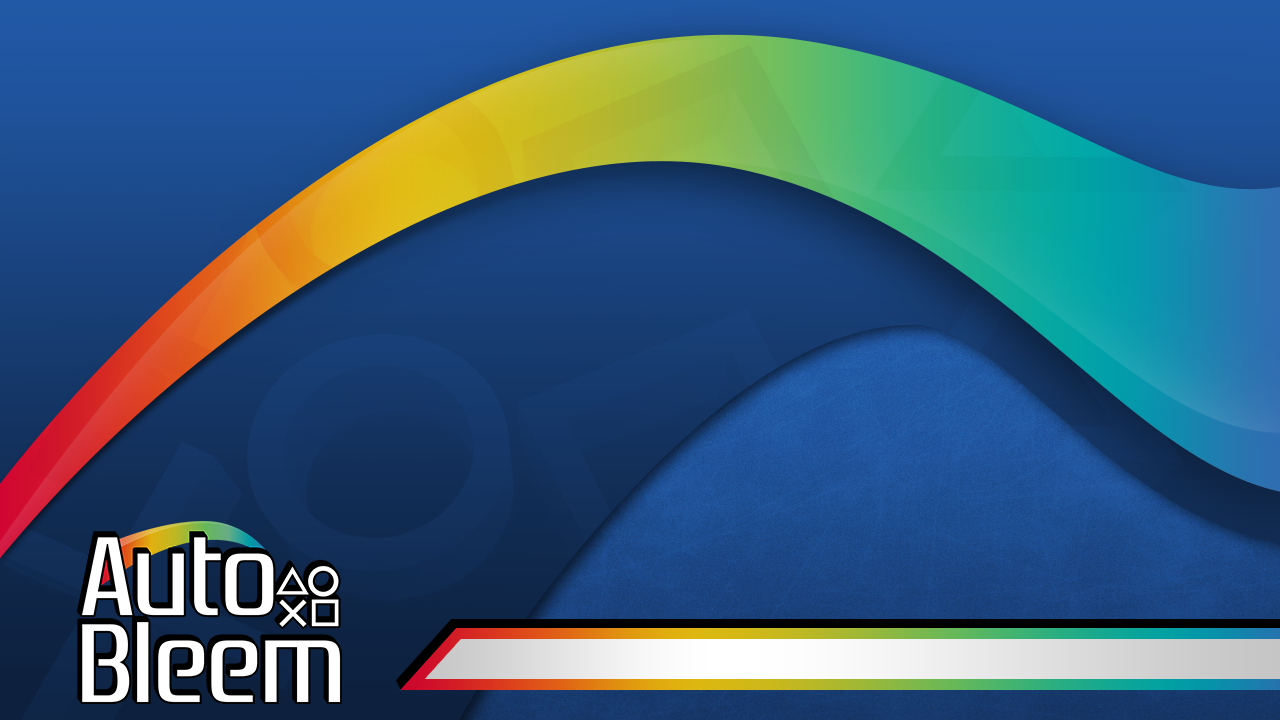
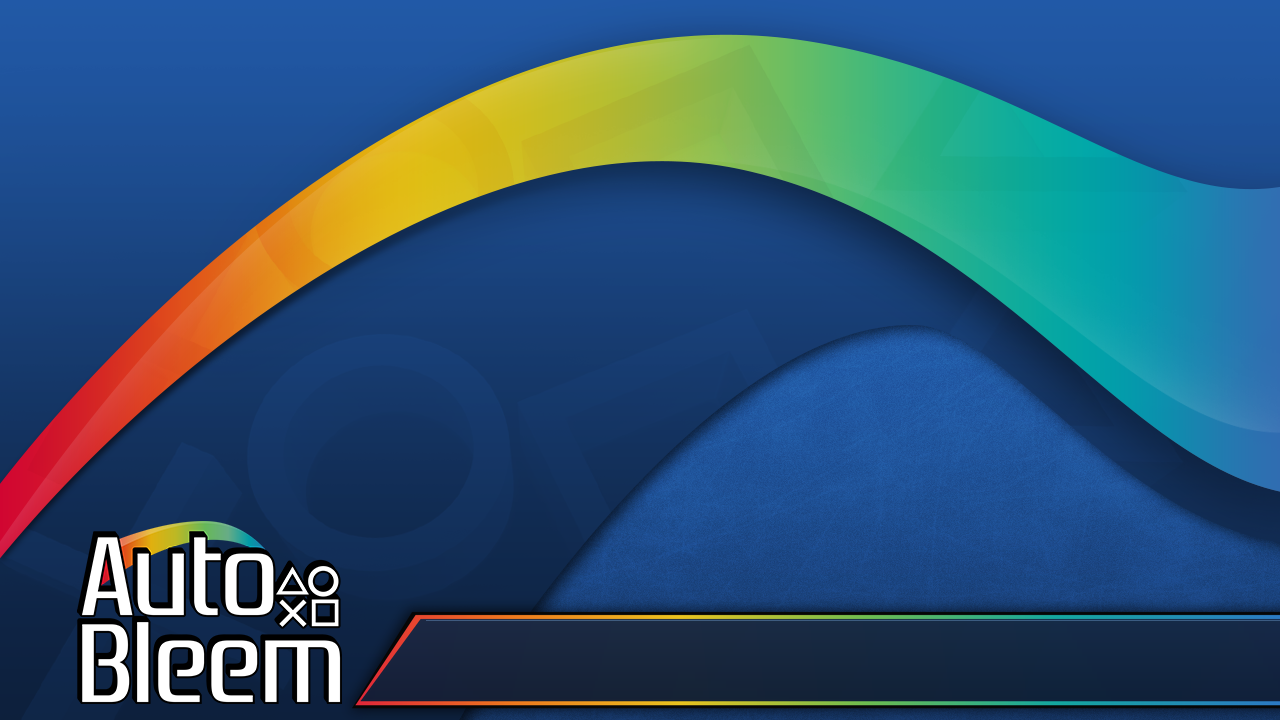
default: frames follow the theme's colours (neutral greys tinted by edge #82b7ed, from the background); a navy hint band for the two hint lines (hintBar 430,620 832x80); row and heading colours readable on the sheets

Changed region(s): [[0.2812, 0.825, 1.0, 1.0]]

diff --git a/tools/make_default_hintband.py b/tools/make_default_hintband.py
@@ -1,0 +1,158 @@
+"""The default theme's hint band: the launcher background's bottom strip, redrawn so the launcher's two hint lines
+(UIREV-36, launcher.hintBar) sit on it readably.
+
+The original strip (y 620..690: a black frame, a rainbow line, a 40 px silver inside) was made for one line of dark
+text; the launcher now writes two lines of white text there, and the hintBar (360,632 900x64) also ran over the
+strip's slanted corner next to the logo. The new band keeps the strip's idea - the slanted left end, a black frame,
+the rainbow line of the big swoosh - but is 96 px high (y 612..708) with a dark navy inside, starts clear of the
+logo (x 352 at its foot), and the hintBar is its inside: 430,620 832x80.
+
+Writes Themes/default/images/launcher_background.png from the original (kept as
+read back from git (ORIG_REV) into tmp/, never committed; the script always starts from it) and, with --shots <dir>, before/after mockups of the launcher's
+bottom with the hints drawn as the code lays them out (4 columns x 2 lines).
+Run: python tools/make_default_hintband.py [--shots <dir>]
+"""
+import json
+import subprocess
+import os
+import sys
+
+from PIL import Image, ImageDraw, ImageFilter, ImageFont
+
+HERE = os.path.dirname(os.path.abspath(__file__))
+THEME = os.path.join(HERE, "..", "Themes", "default")
+IMG = os.path.join(THEME, "images", "launcher_background.png")
+ORIG = os.path.join(HERE, "..", "tmp", "default_launcher_background.orig.png")   # a local copy, never committed
+ORIG_REV = "006d636"   # the last commit with the original art (the strip), read back from git
+SHOTS = sys.argv[sys.argv.index("--shots") + 1] if "--shots" in sys.argv else None
+SS = 4
+Y0, Y1 = 612, 708                   # the band
+X_TOP, X_FOOT = 412, 352            # its slanted left end (the original leans the same way)
+HINTBAR = (430, 620, 832, 80)       # launcher.hintBar: the band's inside
+RAINBOW = [(0.0, (226, 30, 60)), (0.18, (240, 120, 30)), (0.36, (236, 196, 30)), (0.56, (110, 190, 80)),
+           (0.76, (20, 168, 160)), (1.0, (44, 122, 196))]
+
+
+def grad(t):
+    for (a, ca), (b, cb) in zip(RAINBOW, RAINBOW[1:]):
+        if t <= b:
+            k = (t - a) / (b - a)
+            return tuple(round(ca[i] + (cb[i] - ca[i]) * k) for i in range(3))
+    return RAINBOW[-1][1]
+
+
+def band_poly(inset):
+    """the band's outline grown inward by inset px: the slanted left end, the right end off the screen"""
+    slope = (X_TOP - X_FOOT) / (Y1 - Y0)
+    y0, y1 = Y0 + inset, Y1 - inset
+    return [(X_TOP + slope * inset + inset * 0.6 - slope * 0, y0), (1300, y0), (1300, y1),
+            (X_FOOT + inset * 0.6 + (slope * inset), y1)]
+
+
+def mask(poly):
+    m = Image.new("L", (1280 * SS, 720 * SS), 0)
+    ImageDraw.Draw(m).polygon([(x * SS, y * SS) for x, y in poly], fill=255)
+    return m.resize((1280, 720), Image.LANCZOS)
+
+
+def build():
+    if not os.path.exists(ORIG):
+        os.makedirs(os.path.dirname(ORIG), exist_ok=True)
+        data = subprocess.check_output(["git", "-C", HERE, "show", ORIG_REV + ":Themes/default/images/launcher_background.png"])
+        open(ORIG, "wb").write(data)
+    bg = Image.open(ORIG).convert("RGBA")
+    # 1. a soft shadow under the band
+    sh = mask(band_poly(-2)).filter(ImageFilter.GaussianBlur(6))
+    bg.alpha_composite(Image.merge("RGBA", [Image.new("L", bg.size, 0)] * 3 + [sh.point(lambda p: p * 160 // 255)]))
+    # 2. the black frame, 3. the rainbow line, 4. the navy inside (a slight vertical gradient)
+    bg.alpha_composite(Image.merge("RGBA", [Image.new("L", bg.size, 6)] * 3 + [mask(band_poly(0))]))
+    rb = Image.new("RGBA", bg.size)
+    px = rb.load()
+    for x in range(300, 1280):
+        c = grad((x - 340) / 940)
+        for y in range(Y0, Y1 + 1):
+            px[x, y] = c + (255,)
+    ring = mask(band_poly(3))
+    rb.putalpha(ring)
+    bg.alpha_composite(rb)
+    inside = Image.new("RGBA", bg.size)
+    d = ImageDraw.Draw(inside)
+    for y in range(Y0, Y1 + 1):
+        k = (y - Y0) / (Y1 - Y0)
+        d.line([(0, y), (1280, y)], fill=(round(22 - 8 * k), round(40 - 12 * k), round(70 - 18 * k), 248))
+    inside.putalpha(mask(band_poly(7)).point(lambda p: p * 248 // 255))
+    bg.alpha_composite(inside)
+    # a hairline of light along the inside's top edge
+    hl = Image.new("RGBA", bg.size, (130, 183, 237, 0))
+    m = Image.new("L", bg.size, 0)
+    top = band_poly(7)
+    ImageDraw.Draw(m).line([(top[0][0] + 6, Y0 + 8), (1280, Y0 + 8)], fill=90)
+    hl.putalpha(m)
+    bg.alpha_composite(hl)
+    bg.convert("RGB").save(IMG)
+    return Image.open(ORIG).convert("RGBA"), bg
+
+
+before, after = build()
+print("ok", IMG)
+if not SHOTS:
+    sys.exit(0)
+
+os.makedirs(SHOTS, exist_ok=True)
+spec = json.load(open(os.path.join(THEME, "theme.json"), encoding="utf-8"))
+FONT = os.path.join(THEME, spec["classic"]["font"]["file"])
+btn = lambda n: Image.open(os.path.join(THEME, spec["classic"]["buttons"][n])).convert("RGBA")
+LINES = [[("cross", "Play"), ("square", "Play in RetroArch"), ("down", "Game menu"), ("up", "Quick menu")],
+         [("SELECT", "Games shown"), ("START", "Random"), ("triangle", "Guide"), ("L2+R2", "System")]]
+
+
+def hints(im, rect, colour):
+    x0, y0, w, h = rect
+    d = ImageDraw.Draw(im)
+    size = 22
+    while size > 14:                                   # the code: the largest size at which 4 columns fit
+        f = ImageFont.truetype(FONT, size)
+        widths = [max(30 + 8 + f.getlength(LINES[l][c][1]) for l in range(2)) for c in range(4)]
+        if sum(widths) + 3 * 24 <= w - 32:
+            break
+        size -= 1
+    chip_f = ImageFont.truetype(FONT, max(12, size - 8))
+    colx = [x0 + 12]
+    for c in range(3):
+        colx.append(colx[-1] + widths[c] + 24 + (w - 32 - sum(widths) - 72) / 3)
+    lh = h / 2
+    for l, line in enumerate(LINES):
+        cy = y0 + lh * l + lh / 2
+        for c, (b, label) in enumerate(line):
+            x = colx[c]
+            if b in spec["classic"]["buttons"]:
+                im.alpha_composite(btn(b).resize((26, 26), Image.LANCZOS), (int(x), int(cy - 13)))
+                x += 26 + 8
+            elif b in ("up", "down"):
+                ay = cy
+                pts = [(x + 4, ay - 4), (x + 22, ay - 4), (x + 13, ay + 8)] if b == "down" else \
+                      [(x + 4, ay + 6), (x + 22, ay + 6), (x + 13, ay - 6)]
+                d.polygon(pts, fill=(54, 217, 224))
+                x += 26 + 8
+            else:
+                cw = chip_f.getlength(b) + 14
+                d.rounded_rectangle([x, cy - 11, x + cw, cy + 11], 4, outline=(200, 210, 225), width=1, fill=(40, 48, 64))
+                d.text((x + cw / 2, cy), b, font=chip_f, fill=(240, 240, 240), anchor="mm")
+                x += cw + 8
+            d.text((x, cy), label, font=ImageFont.truetype(FONT, size), fill=colour, anchor="lm")
+    return size
+
+
+old = json.load(open(os.path.join(THEME, "theme.json"), encoding="utf-8"))["launcher"]["hintBar"]
+b = before.copy()
+s1 = hints(b, (old["x"], old["y"], old["w"], old["h"]), (255, 255, 255))
+a = after.copy()
+s2 = hints(a, HINTBAR, (255, 255, 255))
+b.convert("RGB").save(os.path.join(SHOTS, "launcher-hints-now.png"))
+a.convert("RGB").save(os.path.join(SHOTS, "launcher-hints-new.png"))
+pair = Image.new("RGB", (1280, 2 * 250 + 30), (14, 16, 20))
+pair.paste(b.convert("RGB").crop((0, 470, 1280, 720)), (0, 0))
+pair.paste(a.convert("RGB").crop((0, 470, 1280, 720)), (0, 280))
+ImageDraw.Draw(pair).text((10, 254), "above: today (hintBar 360,632 900x64 over the silver strip)   below: the new band (hintBar %d,%d %dx%d)" % HINTBAR, fill=(230, 230, 230))
+pair.save(os.path.join(SHOTS, "launcher-hints-compare.png"))
+print("shots ok, font", s1, s2)

diff --git a/tools/make_default_frames.py b/tools/make_default_frames.py
@@ -48,7 +48,8 @@ def layer(size, mask, grey, alpha):
 
 
 def sheet(w, h, bleed, r, sheet_a, rim_a, shadow_a):
-    """a panel-like frame: a soft shadow in the bleed, its own black sheet, a white hairline rim"""
+    """a panel-like frame: a soft shadow in the bleed, its own sheet (a dark grey the tint turns into the theme's
+    dark colour), a light hairline rim (the tint itself)"""
     def draw(s):
         size = (w * s, h * s)
         b = bleed * s
@@ -57,7 +58,7 @@ def sheet(w, h, bleed, r, sheet_a, rim_a, shadow_a):
         sh = rrect_mask(size, (box[0], box[1] + 2 * s, box[2], box[3] + 3 * s), r * s).filter(
             ImageFilter.GaussianBlur(min(b, 5 * s)))
         im.alpha_composite(layer(size, ImageChops.subtract(sh, rrect_mask(size, box, r * s)), 0, shadow_a))
-        im.alpha_composite(layer(size, rrect_mask(size, box, r * s), 0, sheet_a))
+        im.alpha_composite(layer(size, rrect_mask(size, box, r * s), SHEET_GREY, sheet_a))
         im.alpha_composite(layer(size, ring(size, box, r * s, s), 255, rim_a))
         return im
     return draw
@@ -108,7 +109,7 @@ def footer(s):
     b = 4 * s
     box = (b, b, size[0] - b, size[1] - b)
     im = Image.new("RGBA", size, (0, 0, 0, 0))
-    im.alpha_composite(layer(size, rrect_mask(size, box, 6 * s, (False, False, True, True)), 0, 90))
+    im.alpha_composite(layer(size, rrect_mask(size, box, 6 * s, (False, False, True, True)), SHEET_GREY // 2, 120))
     top = Image.new("L", size, 0)
     ImageDraw.Draw(top).rectangle([box[0] + 12 * s, box[1], box[2] - 12 * s - 1, box[1] + s - 1], fill=255)
     im.alpha_composite(layer(size, top, 255, 70))
@@ -134,22 +135,23 @@ def bar(alpha):
 
 
 SL = lambda l, t: {"left": l, "top": t, "right": l, "bottom": t}
+SHEET_GREY = 62   # x the edge role = the sheet: default #82b7ed -> #1f2c3a (a dark navy)
 FRAMES = {
-    "panel": (sheet(96, 96, 12, 6, 175, 72, 150), {"slice": 36, "bleed": 12, "tint": "text"}),
+    "panel": (sheet(96, 96, 12, 6, 200, 150, 150), {"slice": 36, "bleed": 12, "tint": "edge"}),
     "selection": (selection, {"slice": SL(12, 10), "bleed": 4, "tint": "selectionBand"}),
-    "heading": (heading, {"slice": SL(12, 6), "tint": "text"}),
-    "key": (plate(48, 48, 4, 5, 255, 24, 78), {"slice": 16, "bleed": 4, "tint": "text"}),
-    "keyFunction": (plate(48, 48, 4, 5, 255, 12, 48), {"slice": 16, "bleed": 4, "tint": "text"}),
-    "keyLit": (plate(48, 48, 4, 5, 255, 66, 150), {"slice": 16, "bleed": 4, "tint": "text"}),
+    "heading": (heading, {"slice": SL(12, 6), "tint": "edge"}),
+    "key": (plate(48, 48, 4, 5, 255, 30, 120), {"slice": 16, "bleed": 4, "tint": "edge"}),
+    "keyFunction": (plate(48, 48, 4, 5, 255, 16, 80), {"slice": 16, "bleed": 4, "tint": "edge"}),
+    "keyLit": (plate(48, 48, 4, 5, 255, 80, 210), {"slice": 16, "bleed": 4, "tint": "edge"}),
     "keySelected": (plate(48, 48, 4, 5, 255, 115, 255, glow_a=200), {"slice": 16, "bleed": 4, "tint": "selectionBand"}),
-    "field": (plate(56, 56, 4, 5, 0, 130, 105), {"slice": 16, "bleed": 4, "tint": "text"}),
-    "chip": (plate(32, 32, 2, 4, 255, 40, 130), {"slice": 10, "bleed": 2, "tint": "text"}),
-    "badge": (plate(40, 40, 4, 5, 0, 120, 90), {"slice": 12, "bleed": 4, "tint": "text"}),
-    "footer": (footer, {"slice": 16, "bleed": 4, "tint": "text"}),
-    "toast": (sheet(64, 64, 8, 8, 205, 80, 160), {"slice": 20, "bleed": 8, "tint": "text"}),
-    "plate": (sheet(48, 48, 2, 6, 195, 64, 0), {"slice": 16, "bleed": 2, "tint": "text"}),
+    "field": (plate(56, 56, 4, 5, 30, 170, 170), {"slice": 16, "bleed": 4, "tint": "edge"}),
+    "chip": (plate(32, 32, 2, 4, 255, 50, 170), {"slice": 10, "bleed": 2, "tint": "edge"}),
+    "badge": (plate(40, 40, 4, 5, 30, 170, 150), {"slice": 12, "bleed": 4, "tint": "edge"}),
+    "footer": (footer, {"slice": 16, "bleed": 4, "tint": "edge"}),
+    "toast": (sheet(64, 64, 8, 8, 215, 165, 160), {"slice": 20, "bleed": 8, "tint": "edge"}),
+    "plate": (sheet(48, 48, 2, 6, 210, 130, 0), {"slice": 16, "bleed": 2, "tint": "edge"}),
     "tab": (tab, {"slice": 16, "tint": "selectionBand"}),
-    "progressTrack": (bar(64), {"slice": SL(4, 2), "tint": "text"}),
+    "progressTrack": (bar(64), {"slice": SL(4, 2), "tint": "edge"}),
     "progressFill": (bar(255), {"slice": SL(4, 2), "tint": "text"}),
 }
 FILE_NAMES = {"keyFunction": "key_function", "keyLit": "key_lit", "keySelected": "key_selected",

diff --git a/CLAUDE.md b/CLAUDE.md
@@ -24,7 +24,7 @@ Windows editor turn them back to CRLF). Keep every theme's own licence facts wit
 OFL (its own `OFL.txt`/`LICENSE`), `ab2`'s `ab.ogg` and `evolution`'s track are their authors' own work
 (each theme's `credit.txt`/`OFL.txt` says so - do not remove or thin these out). `default`'s sounds,
 images and music are generated - `tools/make_theme_sounds.py`, `tools/make_theme_images.py`,
-`tools/make_theme_music.py`, its frames (`launcher.frames`, `Themes/default/frames/`) by `tools/make_default_frames.py`; `ab2`'s launcher menu icons and on/off switch by `tools/make_ab2_icons.py`.
+`tools/make_theme_music.py`, its frames (`launcher.frames`, `Themes/default/frames/`) by `tools/make_default_frames.py`, the hint band at the foot of `images/launcher_background.png` by `tools/make_default_hintband.py`; `ab2`'s launcher menu icons and on/off switch by `tools/make_ab2_icons.py`.
 Re-run the relevant script and commit its output when you touch what it draws.
 
 A new theme is a new `Themes/<name>/` folder with at least a `theme.json` (everything else falls back to
